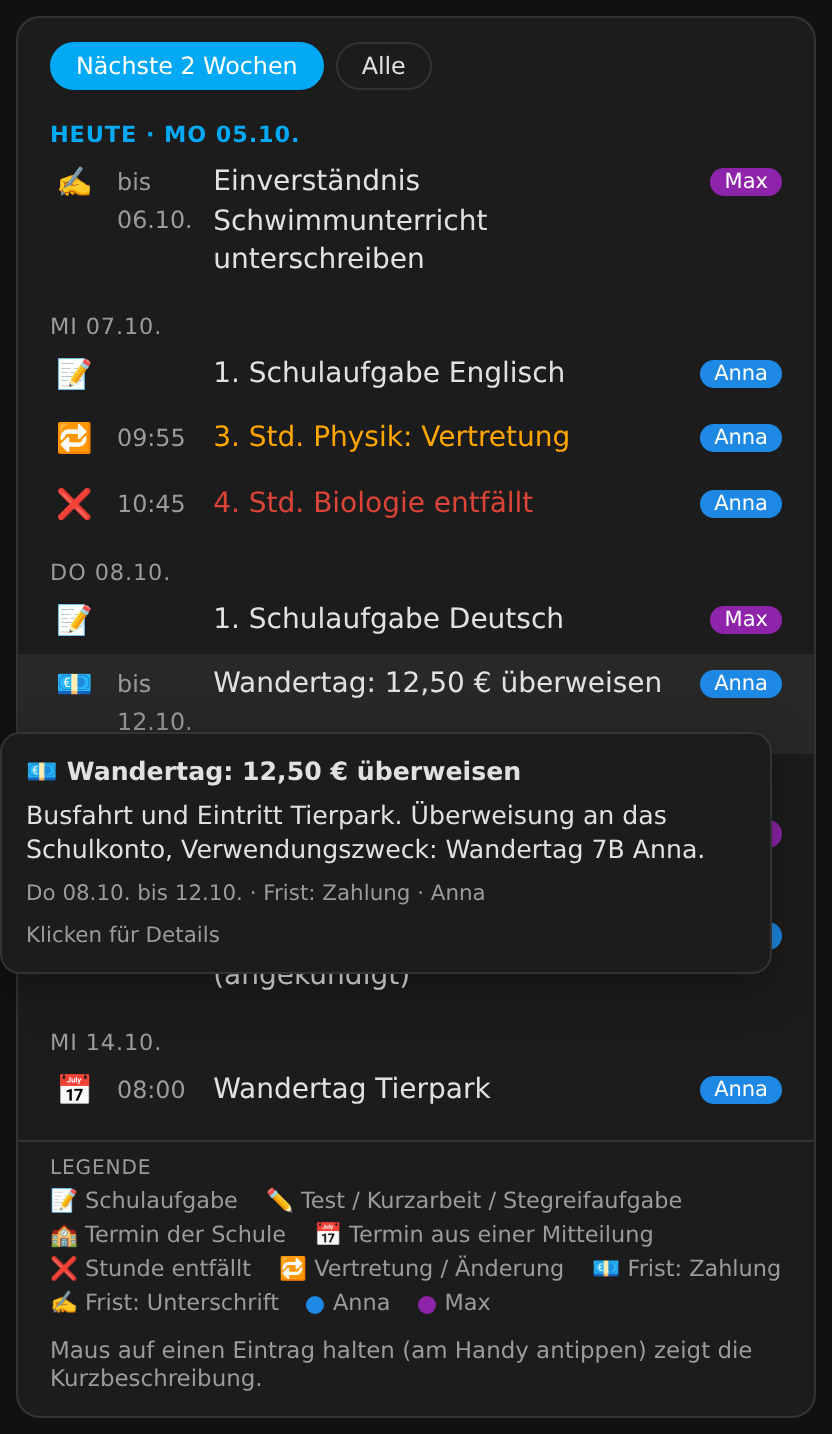
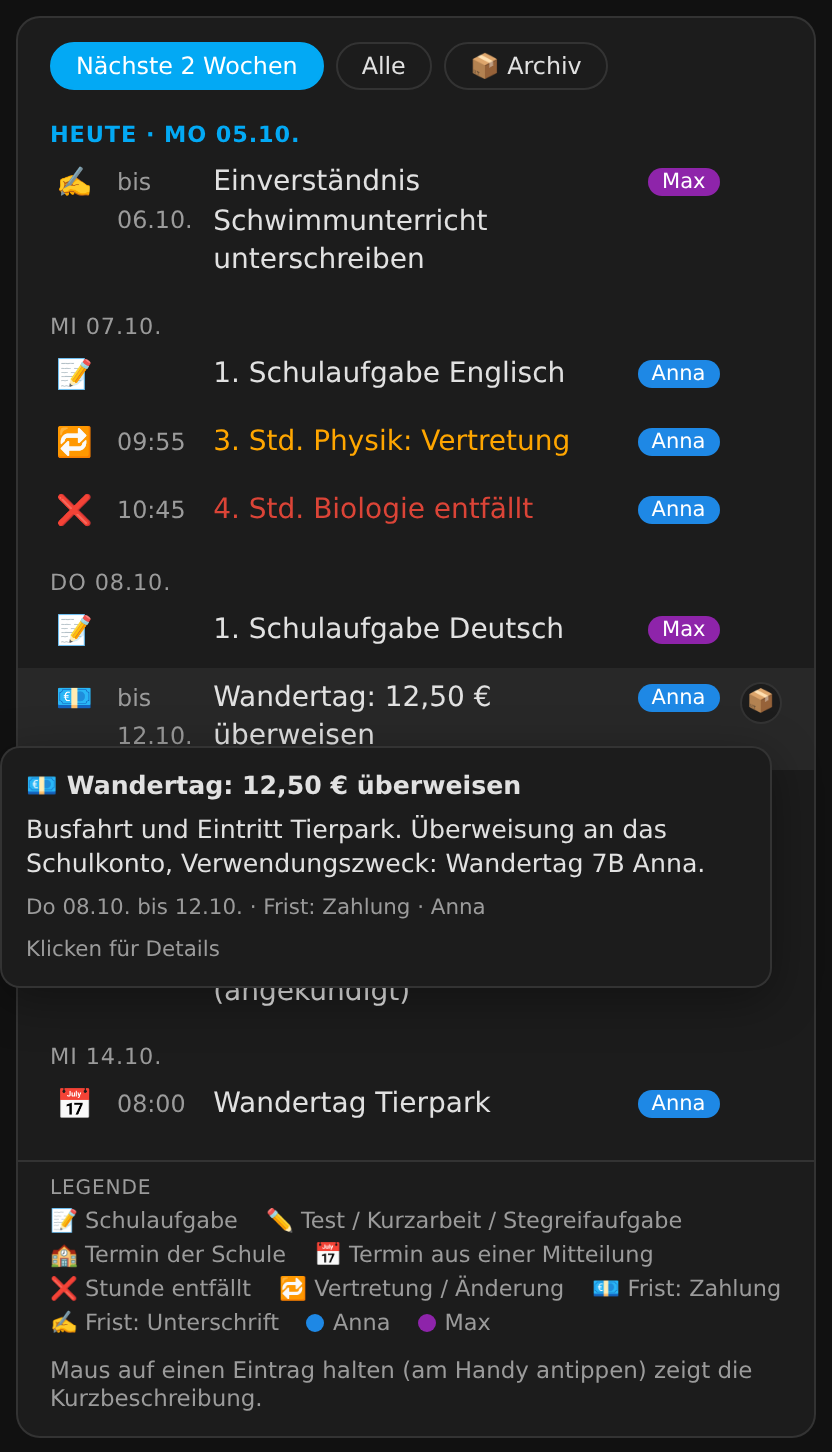
0.11.0: archive and restore entries in Termine & Fristen
Every entry in the Termine & Fristen card gets an archive button; archived
entries move to a new Archiv view next to Alle and can be restored there.
Works on the overview and on every child's tab. The archive is stored in
the integration, pruned when entries disappear, and exposed via the new
actions schulmanager.archive_event / schulmanager.unarchive_event.

Claude-Session: https://claude.ai/code/session_01W27BFYJXm56ZaPZn71dkvo

diff --git a/custom_components/schulmanager/www/schulmanager-card.js b/custom_components/schulmanager/www/schulmanager-card.js
@@ -8,7 +8,7 @@
  *   view: week           # nur Stundenplan: mit Wochenansicht starten (Standard: Tag)
  */
 (() => {
-  const VERSION = "0.10.1";
+  const VERSION = "0.11.0";
   const esc = (v) =>
     String(v ?? "").replace(/[&<>"']/g, (c) => ({ "&": "&amp;", "<": "&lt;", ">": "&gt;", '"': "&quot;", "'": "&#39;" })[c]);
   const fmtDate = (iso) => {
@@ -188,6 +188,12 @@
     .ev .t { line-height:1.4; }
     .ev .hv { display:none; font-size:.85em; color: var(--secondary-text-color); margin-top:2px; }
     .ev.open .hv { display:block; }
+    .ev .arc { flex:none; width:1.9em; height:1.9em; padding:0; border:1px solid var(--divider-color); background: var(--card-background-color, #fff); border-radius:50%; font-size:.8em; line-height:1; cursor:pointer; visibility:hidden; margin-top:1px; }
+    .ev.archived .arc { visibility:visible; }
+    .ev:hover .arc, .ev.open .arc, .ev .arc:focus { visibility:visible; }
+    .ev .arc:hover { border-color: var(--primary-color); color: var(--primary-color); }
+    @media (hover: none) { .ev .arc { visibility:visible; } }
+    .ev.archived .t { color: var(--secondary-text-color); }
     .ev .who { font-size:.75em; padding:1px 7px; border-radius:9px; color:#fff; flex:none; margin-top:2px; }
     .ev.entfall .t { color: var(--error-color,#db4437); }
     .ev.vertretung .t, .ev.raum .t { color: var(--warning-color,#e08a00); }
@@ -887,22 +893,24 @@
       d.children.forEach((c, i) => (colors[c.key] = CHILD_COLORS[i % CHILD_COLORS.length]));
       this._events = {};
       let events = [];
+      const archived = [];
       for (const c of d.children) for (const e of c.events || []) {
         const key = `${c.key}:${e.uid}`;
         this._events[key] = { ...e, child: c.key, child_name: c.name };
-        events.push(this._events[key]);
+        (e.archived ? archived : events).push(this._events[key]);
       }
       const range = this._range || "2w";
+      const archiveView = range === "archive";
       const limit = range === "2w" ? addDays(today, 14) : addDays(today, 400);
-      const shown = events.filter((e) => e.date <= limit);
-      const hidden = events.length - shown.length;
+      const shown = archiveView ? archived.slice() : events.filter((e) => e.date <= limit);
+      const hidden = archiveView ? 0 : events.length - shown.length;
       shown.sort((a, b) => (a.date + (a.time || "")).localeCompare(b.date + (b.time || "")) || a.title.localeCompare(b.title));
       const groups = [];
-      const over = shown.filter((e) => (e.until || e.date) < today && e.task_id);
+      const over = archiveView ? [] : shown.filter((e) => (e.until || e.date) < today && e.task_id);
       if (over.length) groups.push(["over", "Überfällig", over]);
       const byDay = {};
       for (const e of shown) {
-        if ((e.until || e.date) < today && e.task_id) continue;
+        if (!archiveView && (e.until || e.date) < today && e.task_id) continue;
         const day = e.date < today && e.until ? today : e.date;
         (byDay[day] = byDay[day] || []).push(e);
       }
@@ -910,19 +918,24 @@
       let html = `<div class="bar">
           <button class="pill ${range === "2w" ? "on" : ""}" data-range="2w">Nächste 2 Wochen</button>
           <button class="pill ${range === "all" ? "on" : ""}" data-range="all">Alle${range === "2w" && hidden ? ` (+${hidden})` : ""}</button>
+          <button class="pill ${archiveView ? "on" : ""}" data-range="archive" title="Archivierte Termine und Fristen anzeigen">📦 Archiv${archived.length ? ` (${archived.length})` : ""}</button>
         </div>`;
-      if (!groups.length) html += `<div class="empty">Keine Termine ${range === "2w" ? "in den nächsten zwei Wochen" : "geplant"} 🎉</div>`;
+      if (!groups.length) html += archiveView
+        ? `<div class="empty">Das Archiv ist leer. Einträge lassen sich mit 📦 hierher schieben.</div>`
+        : `<div class="empty">Keine Termine ${range === "2w" ? "in den nächsten zwei Wochen" : "geplant"} 🎉</div>`;
       for (const [key, label, list] of groups) {
         html += `<div class="day ${key === today ? "today" : key === "over" ? "over" : ""}">${esc(label)}</div>`;
         for (const e of list) {
           const sub = e.category === "entfall" || e.category === "vertretung" || e.category === "raum" ? e.category : "";
           const time = e.time ? e.time : e.until ? "bis " + fmtShort(e.until) : "";
-          html += `<div class="ev ${sub}" data-ev="${esc(e.child + ":" + e.uid)}">
+          const evKey = esc(e.child + ":" + e.uid);
+          html += `<div class="ev ${sub} ${e.archived ? "archived" : ""}" data-ev="${evKey}">
               <span class="ic">${esc(e.icon)}</span>
               <span class="tm">${esc(time)}</span>
               <div class="main"><div class="t">${esc(e.title)}</div>
                 <div class="hv">${esc(clip(e.hover))}</div></div>
               ${multi ? `<span class="who" style="background:${colors[e.child]}">${esc(e.child_name)}</span>` : ""}
+              <button class="arc" data-arc="${evKey}" title="${e.archived ? "Reaktivieren: zurück in die Termine & Fristen" : "Archivieren: ins Archiv schieben"}" aria-label="${e.archived ? "Reaktivieren" : "Archivieren"}">${e.archived ? "↩" : "📦"}</button>
             </div>`;
         }
       }
@@ -951,6 +964,13 @@
           this._render();
         })
       );
+      root.querySelectorAll("[data-arc]").forEach((el) =>
+        el.addEventListener("click", (m) => {
+          m.stopPropagation();
+          this._hideTip();
+          this._toggleArchive(el.dataset.arc, el);
+        })
+      );
       const touch = window.matchMedia && window.matchMedia("(hover: none)").matches;
       root.querySelectorAll("[data-ev]").forEach((el) => {
         const ev = this._events[el.dataset.ev];
@@ -971,6 +991,24 @@
           else el.classList.toggle("open");
         });
       });
+    }
+
+    async _toggleArchive(key, btn) {
+      const ev = this._events && this._events[key];
+      if (!ev) return;
+      const archive = !ev.archived;
+      if (btn) btn.disabled = true;
+      try {
+        await this._call(archive ? "archive_event" : "unarchive_event", { child: ev.child, event_id: ev.uid });
+        // sofort umsortieren, die Daten vom Server folgen über das Abo
+        const c = this._data && this._data.children.find((x) => x.key === ev.child);
+        const e = c && (c.events || []).find((x) => x.uid === ev.uid);
+        if (e) e.archived = archive;
+        this._render();
+      } catch (err) {
+        if (btn) btn.disabled = false;
+        alert(`Schulmanager: ${err && err.message ? err.message : err}`);
+      }
     }
 
     _showTip(ev, m) {

diff --git a/tests/test_schulmanager.py b/tests/test_schulmanager.py
@@ -1375,3 +1375,63 @@ async def test_published_date_prefix(hass: HomeAssistant, media_dir, hass_ws_cli
         assert prefix not in m.tasks[pay["id"]]["title"] and "überweisen" in m.tasks[pay["id"]]["title"]
         assert set(m.tasks) >= ids_before
     await hass.config_entries.async_unload(entry.entry_id)
+
+
+async def test_archive_events(hass: HomeAssistant, media_dir, hass_ws_client) -> None:
+    """Termine & Fristen: archivieren, reaktivieren, bleibt gespeichert, wird aufgeräumt."""
+    await async_setup_component(hass, "http", {})
+    today = dt_util.now().date()
+
+    async def fake_fetch(self, need_download=None):
+        return _fake_result(today)
+
+    entry = MockConfigEntry(
+        domain=DOMAIN,
+        data={"portals": [{"school": "bspgym", "school_name": "M", "username": "x", "password": "p"}]},
+        unique_id=DOMAIN,
+    )
+    entry.add_to_hass(hass)
+    with patch("custom_components.schulmanager.portal.SchulPortal.async_fetch", fake_fetch):
+        assert await hass.config_entries.async_setup(entry.entry_id)
+        await hass.async_block_till_done()
+        ws = await hass_ws_client(hass)
+
+        async def events() -> list[dict]:
+            await ws.send_json({"id": events.n, "type": "schulmanager/data"})
+            events.n += 1
+            return (await ws.receive_json())["result"]["children"][0]["events"]
+
+        events.n = 1
+        evs = await events()
+        assert evs and not any(e["archived"] for e in evs)
+        uid = evs[0]["uid"]
+        child = "anna"
+
+        await hass.services.async_call(DOMAIN, "archive_event", {"child": child, "event_id": uid}, blocking=True)
+        evs = await events()
+        assert next(e for e in evs if e["uid"] == uid)["archived"]
+        assert sum(e["archived"] for e in evs) == 1
+        m = entry.runtime_data
+        assert uid in m.data["archived"][child]
+
+        # bleibt nach einem Abruf erhalten, weil es den Termin noch gibt
+        await hass.services.async_call(DOMAIN, "refresh", {}, blocking=True)
+        await hass.async_block_till_done()
+        assert uid in m.archived_events(child)
+
+        # unbekanntes Kind -> Fehler
+        with pytest.raises(Exception):
+            await hass.services.async_call(DOMAIN, "archive_event", {"child": "nobody", "event_id": uid}, blocking=True)
+
+        # Reaktivieren
+        await hass.services.async_call(DOMAIN, "unarchive_event", {"child": child, "event_id": uid}, blocking=True)
+        assert not any(e["archived"] for e in await events())
+        assert child not in m.data["archived"]
+
+        # verschwundene Termine werden beim nächsten fehlerfreien Abruf aus dem Archiv entfernt
+        await hass.services.async_call(DOMAIN, "archive_event", {"child": child, "event_id": "gibt-es-nicht"}, blocking=True)
+        assert "gibt-es-nicht" in m.archived_events(child)
+        await hass.services.async_call(DOMAIN, "refresh", {}, blocking=True)
+        await hass.async_block_till_done()
+        assert "gibt-es-nicht" not in m.archived_events(child)
+    await hass.config_entries.async_unload(entry.entry_id)

diff --git a/custom_components/schulmanager/manager.py b/custom_components/schulmanager/manager.py
@@ -243,6 +243,7 @@ class SchulManager:
             "substitutions": stored.get("substitutions", {}),
             "subs_seen": stored.get("subs_seen", {}),
             "sicknotes": stored.get("sicknotes", {}),
+            "archived": stored.get("archived", {}),
         }
 
     async def async_start(self) -> None:
@@ -331,6 +332,8 @@ class SchulManager:
                 await self._merge(result)
             self.last_errors = errors
             self.last_update = dt_util.now()
+            if not errors:
+                self._prune_archived()
             self._changed()
             if self._pending() or self._missing_translations():
                 self._queue_event.set()
@@ -957,6 +960,39 @@ class SchulManager:
     # ------------------------------------------------------------------
     # Auswertung für Sensoren / Dashboard
     # ------------------------------------------------------------------
+    # ------------------------------------------------------------------
+    # Archiv für Termine & Fristen
+    # ------------------------------------------------------------------
+    def archived_events(self, child: str) -> dict[str, str]:
+        """Archivierte Termine eines Kindes: uid -> Zeitpunkt der Archivierung."""
+        return self.data["archived"].get(child, {})
+
+    def set_event_archived(self, child: str, uid: str, archived: bool = True) -> None:
+        """Einen Termin bzw. eine Frist ins Archiv schieben oder zurückholen."""
+        if child not in self.children:
+            raise ValueError(f"Unbekanntes Kind: {child}")
+        store = self.data["archived"].setdefault(child, {})
+        if archived:
+            store[uid] = dt_util.now().isoformat()
+        else:
+            store.pop(uid, None)
+        if not store:
+            self.data["archived"].pop(child, None)
+        self._changed()
+
+    def _prune_archived(self) -> None:
+        """Archiv-Einträge entfernen, deren Termin es nicht mehr gibt."""
+        for child in list(self.data["archived"]):
+            if child not in self.children:
+                self.data["archived"].pop(child)
+                continue
+            current = {e["uid"] for e in self.child_events(child)}
+            store = self.data["archived"][child]
+            for uid in [u for u in store if u not in current]:
+                store.pop(uid)
+            if not store:
+                self.data["archived"].pop(child)
+
     def child_tasks(self, child: str, include_done: bool = False) -> list[dict[str, Any]]:
         tasks = [
             t

diff --git a/custom_components/schulmanager/__init__.py b/custom_components/schulmanager/__init__.py
@@ -22,7 +22,7 @@ from homeassistant.core import (
     ServiceResponse,
     SupportsResponse,
 )
-from homeassistant.exceptions import HomeAssistantError
+from homeassistant.exceptions import HomeAssistantError, ServiceValidationError
 from homeassistant.helpers import config_validation as cv
 from homeassistant.helpers.dispatcher import async_dispatcher_connect
 from homeassistant.helpers.typing import ConfigType
@@ -312,6 +312,18 @@ def _register_services(hass: HomeAssistant) -> None:
     async def reanalyze(call: ServiceCall) -> None:
         await get_manager(hass).async_reanalyze(call.data[ATTR_ITEM])
 
+    async def archive_event(call: ServiceCall) -> None:
+        try:
+            get_manager(hass).set_event_archived(call.data[ATTR_CHILD], call.data["event_id"], True)
+        except ValueError as err:
+            raise ServiceValidationError(str(err)) from err
+
+    async def unarchive_event(call: ServiceCall) -> None:
+        try:
+            get_manager(hass).set_event_archived(call.data[ATTR_CHILD], call.data["event_id"], False)
+        except ValueError as err:
+            raise ServiceValidationError(str(err)) from err
+
     async def rebuild_dashboard(call: ServiceCall) -> None:
         await dashboard.async_apply(hass, get_manager(hass), force=True)
 
@@ -425,6 +437,9 @@ def _register_services(hass: HomeAssistant) -> None:
     hass.services.async_register(
         DOMAIN, "reanalyze", reanalyze, schema=vol.Schema({vol.Required(ATTR_ITEM): cv.string})
     )
+    event_schema = vol.Schema({vol.Required(ATTR_CHILD): cv.string, vol.Required("event_id"): cv.string})
+    hass.services.async_register(DOMAIN, "archive_event", archive_event, schema=event_schema)
+    hass.services.async_register(DOMAIN, "unarchive_event", unarchive_event, schema=event_schema)
     hass.services.async_register(DOMAIN, "send_digest", send_digest)
     hass.services.async_register(DOMAIN, "rebuild_dashboard", rebuild_dashboard)
     hass.services.async_register(

diff --git a/custom_components/schulmanager/websocket.py b/custom_components/schulmanager/websocket.py
@@ -76,8 +76,10 @@ def _agenda(m, key: str) -> list[dict[str, Any]]:
     today = dt_util.now().date()
     first, last = today - timedelta(days=AGENDA_PAST_DAYS), today + timedelta(days=AGENDA_DAYS)
     out = []
+    archived = m.archived_events(key)
     for e in m.child_events(key, subst_from=today):
         ev = _event_light(e)
+        ev["archived"] = e["uid"] in archived
         overdue_task = bool(ev["task_id"])  # offene Fristen bleiben sichtbar
         if date.fromisoformat(ev["date"]) > last or (
             date.fromisoformat(ev["until"] or ev["date"]) < first and not overdue_task

diff --git a/README.de.md b/README.de.md
@@ -53,7 +53,8 @@ Zeigt pro Kind die Reiter **Aufgaben**, **Mitteilungen** und **Erledigt**.
 
 <p align="left"><img src="docs/images/termine.png" width="320" alt="Termine mit Kurzbeschreibung"></p>
 
-- Alle Termine, Fristen und Änderungen aus dem Vertretungsplan nach Tagen sortiert, Überfälliges oben. Umschalten zwischen **Nächste 2 Wochen** und **Alle**.
+- Alle Termine, Fristen und Änderungen aus dem Vertretungsplan nach Tagen sortiert, Überfälliges oben. Umschalten zwischen **Nächste 2 Wochen**, **Alle** und **📦 Archiv**.
+- **Erledigtes archivieren:** Maus auf einen Eintrag (am Handy ist der Knopf immer sichtbar) und auf **📦** klicken. Der Eintrag verschwindet aus der Liste und landet im **📦 Archiv** (rechts neben **Alle**, mit Anzahl). Dort holt **↩** ihn zurück. Funktioniert auf der Übersicht und in jedem Kinder-Reiter; das Archiv liegt in Home Assistant und ist auf allen Geräten gleich. Archivieren blendet nur in der Karte aus – Fristen bleiben offene Aufgaben mit Erinnerung, der Kalender bleibt unverändert. Einträge, die es nicht mehr gibt, verschwinden automatisch aus dem Archiv.
 - **Maus auf einen Eintrag** zeigt die Kurzbeschreibung der KI (am Handy einmal antippen). Ein Klick auf eine Frist oder einen Termin aus einem Brief öffnet die Details.
 - Unten erklärt eine **Legende** die Icons: 📝 Schulaufgabe, ✏ Test / Kurzarbeit / Stegreifaufgabe, 🏫 Termin der Schule, 📅 Termin aus einer Mitteilung, ❌ Stunde entfällt, 🔁 Vertretung, 🚪 Raumänderung, 🤒 Krankmeldung und die Fristen nach Art (💶 Zahlung, ✍ Unterschrift, ↩ Rückmeldung, 🎒 Mitbringen, 📖 Lesen, ✅ Aufgabe). Bei mehreren Kindern hat jedes eine eigene Farbe.
 
@@ -130,6 +131,7 @@ Beim ersten Abruf werden die Mitteilungen der letzten 120 Tage übernommen. Nur 
 | `schulmanager.update_item` | `item_id` und `status` (`offen`, `in_arbeit`, `erledigt`) einer Mitteilung |
 | `schulmanager.add_task` | `child`, `title`, optional `due`, `amount`, `details`, `type` |
 | `schulmanager.reanalyze` | eine Mitteilung neu von der KI auswerten lassen |
+| `schulmanager.archive_event` / `schulmanager.unarchive_event` | `child` und `event_id` (uid eines Eintrags in „Termine & Fristen“): ins Archiv schieben bzw. zurückholen |
 | `schulmanager.send_digest` / `send_reminders` | Übersicht oder Erinnerungen sofort schicken |
 | `schulmanager.rebuild_dashboard` | Dashboard „Schule“ neu erzeugen |
 | `schulmanager.get_overview` | liefert alles als Antwort, z. B. für ein Assist-Skript „Was ist für die Schule zu tun?“ |

diff --git a/README.md b/README.md
@@ -60,7 +60,8 @@ Shows the tabs **Aufgaben** (tasks), **Mitteilungen** (messages) and **Erledigt*
 
 <p align="left"><img src="docs/images/termine.png" width="320" alt="Appointments with AI summary on hover"></p>
 
-- All appointments, deadlines and substitution plan changes, grouped by day, overdue items on top. Switch between **next 2 weeks** and **all**.
+- All appointments, deadlines and substitution plan changes, grouped by day, overdue items on top. Switch between **next 2 weeks**, **all** and **📦 Archiv**.
+- **Archive entries you no longer need:** hover an entry (on phones the button is always shown) and click **📦**. It disappears from the list and moves to **📦 Archiv** (right of **Alle**, with the number of archived entries). There, **↩** brings it back. Works on the overview and on every child's tab; the archive is stored in Home Assistant, so it is the same on all devices. Archiving only hides the entry in the card – deadlines stay open tasks and keep their reminders, the calendar is unchanged. Entries that no longer exist are removed from the archive automatically.
 - **Hover an entry** to see the AI's short summary (tap once on phones). Clicking a deadline or an appointment taken from a letter opens its details.
 - A **legend** at the bottom explains the icons: 📝 exam (*Schulaufgabe*), ✏ test / short test / pop quiz, 🏫 school appointment, 📅 appointment from a message, ❌ lesson cancelled, 🔁 substitution, 🚪 room change, 🤒 sick note, and deadlines by type (💶 payment, ✍ signature, ↩ reply, 🎒 bring along, 📖 read, ✅ task). With several children each one gets its own colour.
 
@@ -132,6 +133,7 @@ Entity IDs follow your Home Assistant language (shown here for German).
 | `schulmanager.update_item` | `item_id` and `status` (`offen`, `in_arbeit`, `erledigt`) of a message |
 | `schulmanager.add_task` | Add your own task |
 | `schulmanager.reanalyze` | Let the AI analyse a message again |
+| `schulmanager.archive_event` / `schulmanager.unarchive_event` | `child` and `event_id` (uid of an entry in "Termine & Fristen"): move it to the archive or bring it back |
 | `schulmanager.send_digest` / `schulmanager.send_reminders` | Send summary or reminders now |
 | `schulmanager.rebuild_dashboard` | Regenerate the "Schule" dashboard |
 | `schulmanager.get_overview` | Returns everything as a response – e.g. for an Assist script "What's up at school?" |

diff --git a/CHANGELOG.md b/CHANGELOG.md
@@ -1,5 +1,9 @@
 # Changelog
 
+## 0.11.0 – unreleased
+
+- New: **archive in "Termine & Fristen"**. Every entry gets a **📦** button (on hover, always visible on phones); archived entries move to the new **📦 Archiv** view right of "Alle", where **↩** brings them back. Works on the overview and on each child's tab, stored in Home Assistant (same on all devices). Deadlines stay open tasks with reminders; the calendar is unchanged. New actions `schulmanager.archive_event` and `schulmanager.unarchive_event`. / Neu: Archiv für Termine & Fristen mit Archivieren und Reaktivieren, auf der Übersicht und in den Kinder-Reitern.
+
 ## 0.10.1 – 2026-10-05
 
 - Removed: the daily overview per child from 0.10.0 (new messages, deadlines, timetable changes … above the cards) is gone again. The header keeps the last fetch, the version with its GitHub link and "⚙ Einstellungen"; the card is now called `custom:schulmanager-header` (the old name `custom:schulmanager-heute` still works). / Entfernt: der Tagesüberblick je Kind aus 0.10.0. Die Kopfzeile mit letztem Abruf, Version und Einstellungen bleibt.
